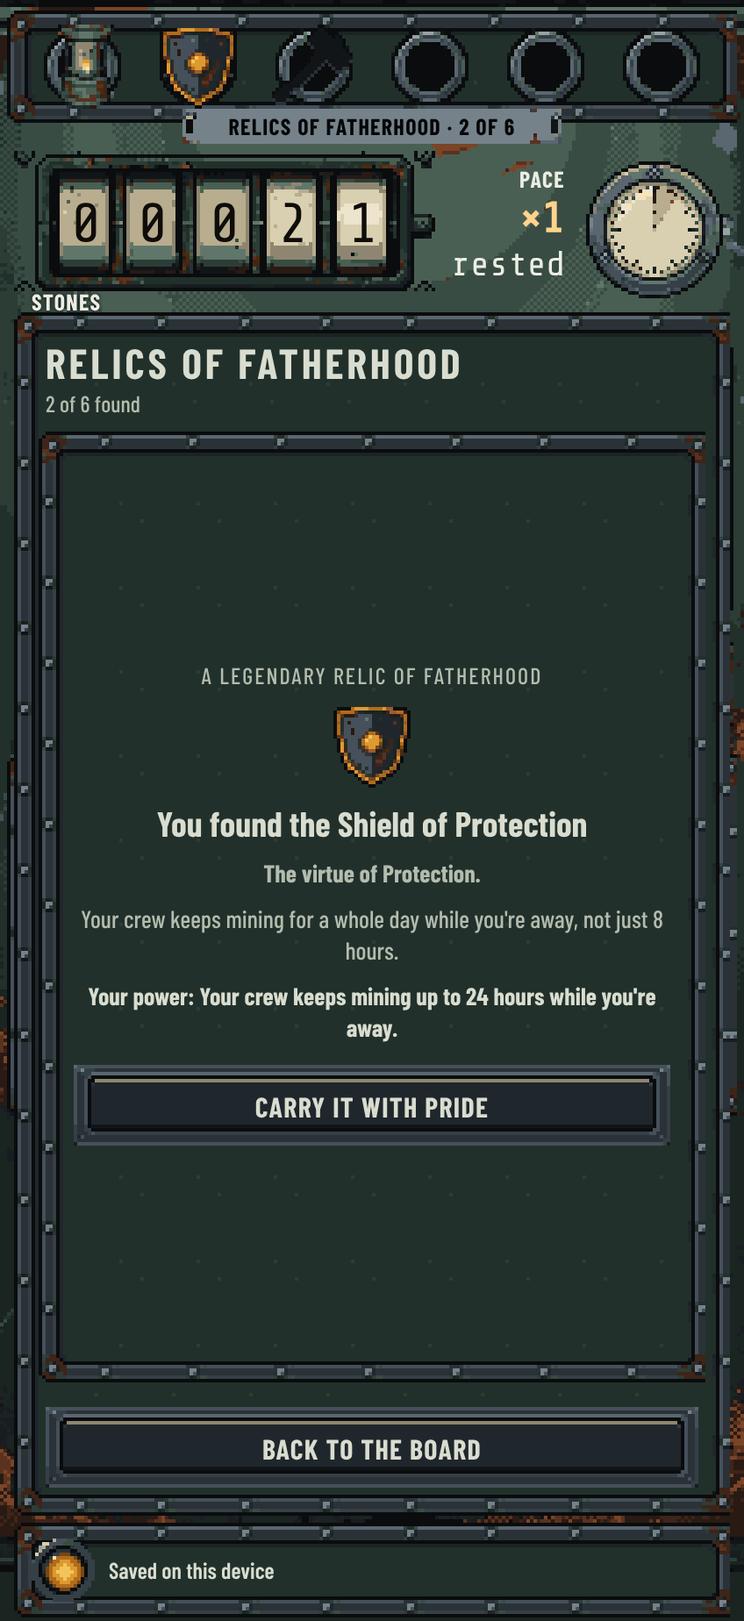
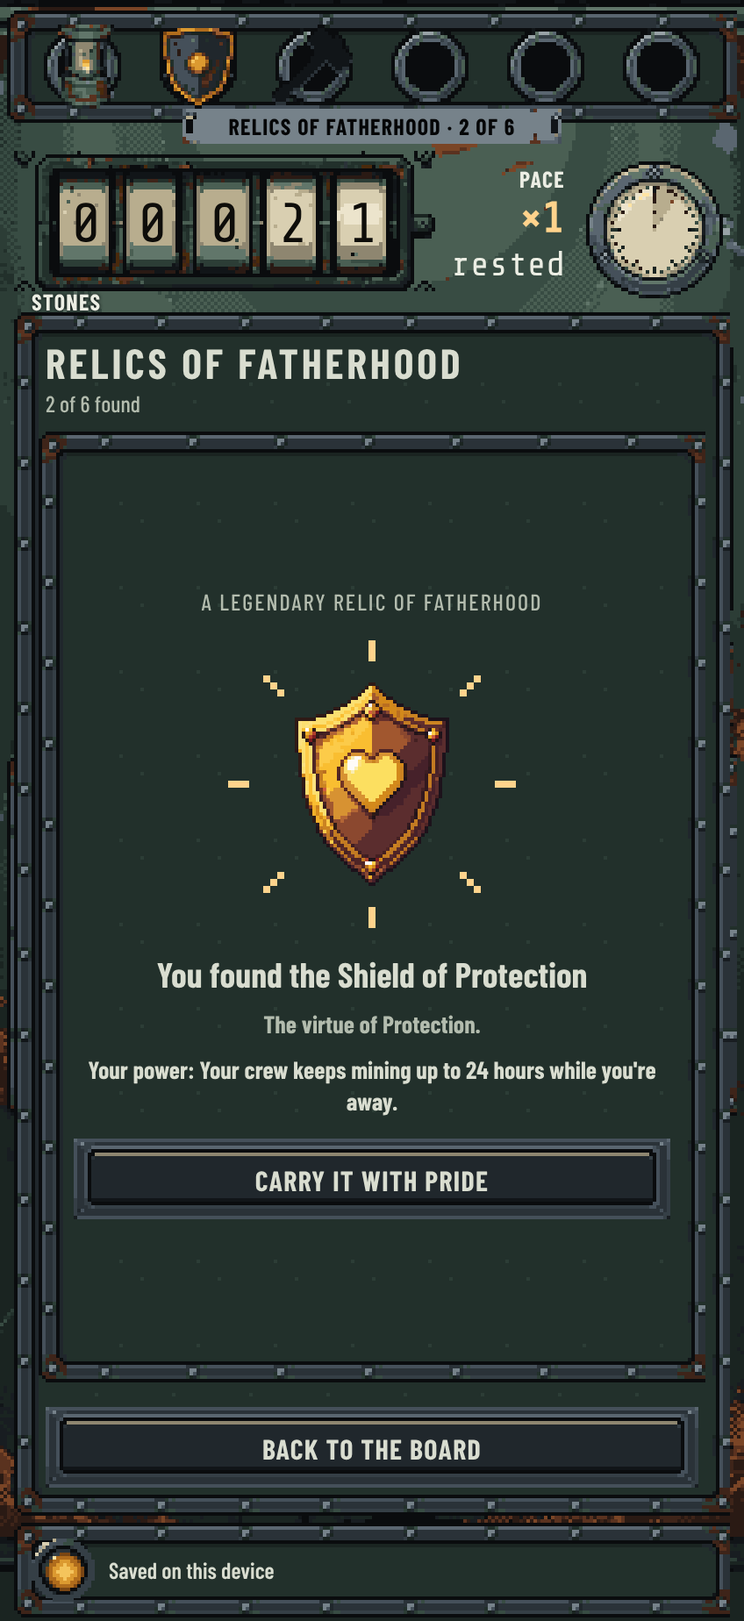
The found relic rises in hard steps, its light swaps frames, and the words step in (#523)
Claude-Session: https://claude.ai/code/session_011RgeWsjy2G4D5ZDwLYbp1p

Changed region(s): [[0.092, 0.3701, 0.9198, 0.7711]]

diff --git a/src/board.css b/src/board.css
@@ -807,6 +807,26 @@ body {
   .board-card .board-card-face {
     animation: none;
   }
+  /* The reveal (#523): the relic, its light (the near frame) and its words are simply there.
+     Under .board-sheet, to stand over the entrance's own rules later in this file. */
+  .board-sheet .relic-reveal-light {
+    animation: none;
+  }
+  .board-sheet .relic-reveal-page.is-entering .relic-reveal-art {
+    animation: none;
+  }
+  .board-sheet .relic-reveal-page.is-entering .relic-reveal-light {
+    animation: none;
+  }
+  .board-sheet .relic-reveal-page.is-entering .relic-page-title {
+    animation: none;
+  }
+  .board-sheet .relic-reveal-page.is-entering .relic-page-line {
+    animation: none;
+  }
+  .board-sheet .relic-reveal-page.is-entering .relic-page-boost {
+    animation: none;
+  }
 }
 
 /* The save line's spoken separator: in the text, not drawn. */
@@ -3371,7 +3391,7 @@ button.board-row:focus-visible {
 
 /* The reveal of a relic just found (#523): the gold sprite at 2× on its stage, with eight
    dashes of light around it, drawn as art-pixel blocks (no art, no filter). The dashes reach
-   past the stage, so its margin keeps them off the kicker and the title. */
+   past the stage, so its margin keeps them, on the far frame too, off the kicker and the title. */
 .relic-reveal-stage {
   position: relative;
   flex: none;
@@ -3379,7 +3399,7 @@ button.board-row:focus-visible {
   place-items: center;
   width: calc(var(--art) * 64);
   height: calc(var(--art) * 64);
-  margin: calc(var(--art) * 8) 0;
+  margin: calc(var(--art) * 12) 0;
 }
 
 .relic-reveal-art {
@@ -3390,35 +3410,107 @@ button.board-row:focus-visible {
 }
 
 .relic-reveal-light {
+  /* How far out the dashes stand, in art px: the shine swaps both, a whole frame at a time. */
+  --relic-out: 0;
+  --relic-diag: 0;
   position: relative;
   grid-area: 1 / 1;
   width: calc(var(--art) * 2);
   height: calc(var(--art) * 2);
   box-shadow:
-    calc(var(--art) * 36) calc(var(--art) * 0) 0 0 var(--board-amber-bare),
-    calc(var(--art) * -36) calc(var(--art) * 0) 0 0 var(--board-amber-bare),
-    calc(var(--art) * 0) calc(var(--art) * 36) 0 0 var(--board-amber-bare),
-    calc(var(--art) * 0) calc(var(--art) * -36) 0 0 var(--board-amber-bare),
-    calc(var(--art) * 38) calc(var(--art) * 0) 0 0 var(--board-amber-bare),
-    calc(var(--art) * -38) calc(var(--art) * 0) 0 0 var(--board-amber-bare),
-    calc(var(--art) * 0) calc(var(--art) * 38) 0 0 var(--board-amber-bare),
-    calc(var(--art) * 0) calc(var(--art) * -38) 0 0 var(--board-amber-bare),
-    calc(var(--art) * 40) calc(var(--art) * 0) 0 0 var(--board-amber-bare),
-    calc(var(--art) * -40) calc(var(--art) * 0) 0 0 var(--board-amber-bare),
-    calc(var(--art) * 0) calc(var(--art) * 40) 0 0 var(--board-amber-bare),
-    calc(var(--art) * 0) calc(var(--art) * -40) 0 0 var(--board-amber-bare),
-    calc(var(--art) * 26) calc(var(--art) * 26) 0 0 var(--board-amber-bare),
-    calc(var(--art) * -26) calc(var(--art) * 26) 0 0 var(--board-amber-bare),
-    calc(var(--art) * 26) calc(var(--art) * -26) 0 0 var(--board-amber-bare),
-    calc(var(--art) * -26) calc(var(--art) * -26) 0 0 var(--board-amber-bare),
-    calc(var(--art) * 28) calc(var(--art) * 28) 0 0 var(--board-amber-bare),
-    calc(var(--art) * -28) calc(var(--art) * 28) 0 0 var(--board-amber-bare),
-    calc(var(--art) * 28) calc(var(--art) * -28) 0 0 var(--board-amber-bare),
-    calc(var(--art) * -28) calc(var(--art) * -28) 0 0 var(--board-amber-bare),
-    calc(var(--art) * 30) calc(var(--art) * 30) 0 0 var(--board-amber-bare),
-    calc(var(--art) * -30) calc(var(--art) * 30) 0 0 var(--board-amber-bare),
-    calc(var(--art) * 30) calc(var(--art) * -30) 0 0 var(--board-amber-bare),
-    calc(var(--art) * -30) calc(var(--art) * -30) 0 0 var(--board-amber-bare);
+    calc(var(--art) * (36 + var(--relic-out))) 0 0 0 var(--board-amber-bare),
+    calc(var(--art) * (-36 - var(--relic-out))) 0 0 0 var(--board-amber-bare),
+    0 calc(var(--art) * (36 + var(--relic-out))) 0 0 var(--board-amber-bare),
+    0 calc(var(--art) * (-36 - var(--relic-out))) 0 0 var(--board-amber-bare),
+    calc(var(--art) * (38 + var(--relic-out))) 0 0 0 var(--board-amber-bare),
+    calc(var(--art) * (-38 - var(--relic-out))) 0 0 0 var(--board-amber-bare),
+    0 calc(var(--art) * (38 + var(--relic-out))) 0 0 var(--board-amber-bare),
+    0 calc(var(--art) * (-38 - var(--relic-out))) 0 0 var(--board-amber-bare),
+    calc(var(--art) * (40 + var(--relic-out))) 0 0 0 var(--board-amber-bare),
+    calc(var(--art) * (-40 - var(--relic-out))) 0 0 0 var(--board-amber-bare),
+    0 calc(var(--art) * (40 + var(--relic-out))) 0 0 var(--board-amber-bare),
+    0 calc(var(--art) * (-40 - var(--relic-out))) 0 0 var(--board-amber-bare),
+    calc(var(--art) * (26 + var(--relic-diag)))
+      calc(var(--art) * (26 + var(--relic-diag))) 0 0 var(--board-amber-bare),
+    calc(var(--art) * (-26 - var(--relic-diag)))
+      calc(var(--art) * (26 + var(--relic-diag))) 0 0 var(--board-amber-bare),
+    calc(var(--art) * (26 + var(--relic-diag)))
+      calc(var(--art) * (-26 - var(--relic-diag))) 0 0 var(--board-amber-bare),
+    calc(var(--art) * (-26 - var(--relic-diag)))
+      calc(var(--art) * (-26 - var(--relic-diag))) 0 0 var(--board-amber-bare),
+    calc(var(--art) * (28 + var(--relic-diag)))
+      calc(var(--art) * (28 + var(--relic-diag))) 0 0 var(--board-amber-bare),
+    calc(var(--art) * (-28 - var(--relic-diag)))
+      calc(var(--art) * (28 + var(--relic-diag))) 0 0 var(--board-amber-bare),
+    calc(var(--art) * (28 + var(--relic-diag)))
+      calc(var(--art) * (-28 - var(--relic-diag))) 0 0 var(--board-amber-bare),
+    calc(var(--art) * (-28 - var(--relic-diag)))
+      calc(var(--art) * (-28 - var(--relic-diag))) 0 0 var(--board-amber-bare),
+    calc(var(--art) * (30 + var(--relic-diag)))
+      calc(var(--art) * (30 + var(--relic-diag))) 0 0 var(--board-amber-bare),
+    calc(var(--art) * (-30 - var(--relic-diag)))
+      calc(var(--art) * (30 + var(--relic-diag))) 0 0 var(--board-amber-bare),
+    calc(var(--art) * (30 + var(--relic-diag)))
+      calc(var(--art) * (-30 - var(--relic-diag))) 0 0 var(--board-amber-bare),
+    calc(var(--art) * (-30 - var(--relic-diag)))
+      calc(var(--art) * (-30 - var(--relic-diag))) 0 0 var(--board-amber-bare);
+  animation: board-relic-shine 3.2s steps(1) infinite;
+}
+
+/* The entrance (#523), in the board's hard steps: the relic rises behind the drawer's own
+   0.24s slide and lands, then the light and the words step in whole, one after another. The
+   plate is there from the start. Each waits at its first frame (backwards) until its turn. */
+.relic-reveal-page.is-entering .relic-reveal-art {
+  animation: board-relic-rise 0.4s steps(8) 0.24s backwards;
+}
+
+.relic-reveal-page.is-entering .relic-reveal-light {
+  animation:
+    board-relic-in 0.01s steps(1) 0.64s backwards,
+    board-relic-shine 3.2s steps(1) 0.64s infinite;
+}
+
+.relic-reveal-page.is-entering .relic-page-title {
+  animation: board-relic-in 0.01s steps(1) 0.7s backwards;
+}
+
+.relic-reveal-page.is-entering .relic-page-line {
+  animation: board-relic-in 0.01s steps(1) 0.76s backwards;
+}
+
+.relic-reveal-page.is-entering .relic-page-boost {
+  animation: board-relic-in 0.01s steps(1) 0.82s backwards;
+}
+
+@keyframes board-relic-rise {
+  from {
+    transform: translateY(calc(var(--art) * 40)) scale(2);
+  }
+  to {
+    transform: scale(2);
+  }
+}
+
+@keyframes board-relic-in {
+  from {
+    visibility: hidden;
+  }
+  to {
+    visibility: visible;
+  }
+}
+
+/* Two frames: the dashes near, then 4 art px further out (3 on each axis of a diagonal). */
+@keyframes board-relic-shine {
+  0%,
+  100% {
+    --relic-out: 0;
+    --relic-diag: 0;
+  }
+  50% {
+    --relic-out: 4;
+    --relic-diag: 3;
+  }
 }
 
 .relic-legend-shelf {

diff --git a/src/style.test.ts b/src/style.test.ts
@@ -357,6 +357,32 @@ describe("board.css", () => {
     expect(reduced).toMatch(/\.engineer-walker[^{]*\{[^}]*animation:\s*none/);
   });
 
+  it("the reveal's rise, light and words hold still under reduced motion (#523)", () => {
+    expect(boardCss).toMatch(
+      /^\.relic-reveal-page\.is-entering \.relic-reveal-art \{[^}]*animation:\s*board-relic-rise [^;]*steps\(/m,
+    );
+    expect(boardCss).toMatch(
+      /^\.relic-reveal-light \{[^}]*animation:\s*board-relic-shine [^;]*steps\(1\) infinite/m,
+    );
+    const reduced =
+      /@media \(prefers-reduced-motion: reduce\) \{([\s\S]*?)\n\}/.exec(
+        boardCss,
+      )?.[1];
+    for (const part of [
+      "\\.relic-reveal-art",
+      "\\.relic-reveal-light",
+      "\\.relic-page-title",
+      "\\.relic-page-line",
+      "\\.relic-page-boost",
+    ]) {
+      expect(reduced).toMatch(
+        new RegExp(
+          `\\.relic-reveal-page[^{]*${part}[^{]*\\{[^}]*animation:\\s*none`,
+        ),
+      );
+    }
+  });
+
   it("the New sign takes no taps: they go through to the plate or the key (#373)", () => {
     const rule = /^\.board-sign-slot \{([^}]*)\}/m.exec(boardCss)?.[1] ?? "";
     expect(rule).toMatch(/pointer-events:\s*none/);

diff --git a/src/relic-pages.test.ts b/src/relic-pages.test.ts
@@ -200,6 +200,17 @@ describe("the reveal page (#465)", () => {
     ]);
   });
 
+  it("plays its entrance afresh each time a relic is painted (#523)", () => {
+    const page = createRevealPage({ board, onCarry: vi.fn() });
+    expect(page.root.classList.contains("is-entering")).toBe(false);
+    page.paint(relic(0));
+    expect(page.root.classList.contains("is-entering")).toBe(true);
+    const removed = vi.spyOn(page.root.classList, "remove");
+    page.paint(relic(1));
+    expect(removed).toHaveBeenCalledWith("is-entering");
+    expect(page.root.classList.contains("is-entering")).toBe(true);
+  });
+
   it("Carry it with pride acts past the settle, with how it came", () => {
     const onCarry = vi.fn();
     const page = createRevealPage({ board, onCarry });

diff --git a/src/relic-panels.test.ts b/src/relic-panels.test.ts
@@ -282,6 +282,20 @@ describe("the reveal opens the drawer itself (#465)", () => {
     expect(fixture.panel.sheet.isOpen()).toBe(false);
   });
 
+  it("Escape while the relic is still rising carries it (#523)", () => {
+    const fixture = mount(
+      minedMountain(relic("lantern").depth),
+      relic("lantern"),
+    );
+    fixture.panel.render();
+    expect(page(fixture, "reveal")?.classList.contains("is-entering")).toBe(
+      true,
+    );
+    advance(50);
+    escape();
+    expect(fixture.dismissReveal).toHaveBeenCalledTimes(1);
+  });
+
   it("Back, Escape and the scrim carry it too: closing it is seen", () => {
     const fixture = mount(
       minedMountain(relic("shield").depth),

diff --git a/src/relic-pages.ts b/src/relic-pages.ts
@@ -222,6 +222,10 @@ export function createRevealPage({
   return {
     root,
     paint(relic) {
+      // The entrance plays afresh for each relic (#523): off, a reflow, and on again.
+      root.classList.remove("is-entering");
+      void root.offsetWidth;
+      root.classList.add("is-entering");
       write(title, `You found the ${relic.name}`);
       setAttr(stage.art, "src", RELIC_GOLD[relic.id]);
       write(virtue, `The virtue of ${relic.virtue}.`);

diff --git a/docs/ui-audit.md b/docs/ui-audit.md
@@ -40,7 +40,7 @@ Bars used below:
 | Engineers, expedition    | [shot](ui-audit/engineers-expedition-424x924.png)   | Ada is out: her row's icon cell is the tunnel mouth with the miner walking home in hard steps, and its line is words (`Exploring the old shaft · gone about an hour`), not a clock.                                                                                                                                                                                                                                                                                                                                                                                                                                                                                                                                                                                                                                                                               |
 | Engineers, homecoming    | [shot](ui-audit/engineers-homecoming-424x924.png)   | The welcome board card (#464): `Welcome home` names who came back and what they carried, and the Engineers drawer is shut under it. No digits, on purpose. One plate, `Back to the mountain`.                                                                                                                                                                                                                                                                                                                                                                                                                                                                                                                                                                                                                                                                     |
 | Relic tease              | [shot](ui-audit/relic-tease-424x924.png)            | The Ledger's relics row: the next relic dark at 48, `Next: … · Almost there` and the guide bar at the row's foot. On the board, the next relic is the dark socket; a tap shows its vague hint.                                                                                                                                                                                                                                                                                                                                                                                                                                                                                                                                                                                                                                                                    |
-| Relic reveal             | [shot](ui-audit/relic-reveal-424x924.png)           | The relics drawer opens itself on its reveal page (#465): the Mantle's or any relic's art at 24 art px, its virtue, what it does, its power, and `Carry it with pride`. Back, the scrim and Escape carry it too.                                                                                                                                                                                                                                                                                                                                                                                                                                                                                                                                                                                                                                                  |
+| Relic reveal             | [shot](ui-audit/relic-reveal-424x924.png)           | The relics drawer opens itself on its reveal page (#465): the Mantle's or any relic's gold sprite at 2× with its light (#523), rising into place in hard steps, then its name, its virtue and one line for its power, and `Carry it with pride`, which is there from the start. Back, the scrim and Escape carry it too.                                                                                                                                                                                                                                                                                                                                                                                                                                                                                                                                          |
 | Relic shelf              | [shot](ui-audit/relic-shelf-424x924.png)            | The relics drawer (#465), opened from the `Relic shelf` key in any socket's note: six rows, found ones dark with their power (found is done, #509), the next amber with its tease and `Next · …` hint, the rest dark. Fits with no scroll.                                                                                                                                                                                                                                                                                                                                                                                                                                                                                                                                                                                                                        |
 | Relic detail             | [shot](ui-audit/relic-detail-424x924.png)           | A page of the relics drawer: the relic, its virtue and power, the keepsakes brought home with their own 16 art px icons, and `Back to the shelf`. Five stories fit without the list scrolling.                                                                                                                                                                                                                                                                                                                                                                                                                                                                                                                                                                                                                                                                    |
 | Legend                   | [shot](ui-audit/relic-legend-424x924.png)           | After the Mantle's reveal, on the same drawer: the six relics lit, the stones and the crew, `Stand proud` and `Pass to your kid` side by side.                                                                                                                                                                                                                                                                                                                                                                                                                                                                                                                                                                                                                                                                                                                    |

diff --git a/docs/DESIGN.md b/docs/DESIGN.md
@@ -104,7 +104,7 @@ Old saves are migrated, not wiped: dug cells count as stones already mined out o
 - A machine arriving gives one calm beat per tier whose count rose, however far: a cart sends the full tub up the cage and a new empty one down, a drill puffs dust, and the first borer has its tarp dragged off. Nothing beats on the first render, on a fall (Start over, Pass the mine), or under reduced motion, where the window and the needle hold still and a dig's "+N" shows without rising.
 - Golden veins glint on the view's rock, inside the window and on top of it; a tap on the vein pays the vein and never also digs. Its payout ("Golden vein! +N stones", and for a quick vein a second line, "Gold rush: the crew digs ×10 for 90 seconds.") and the quiet away line show in a one-line board note under the window. Hazards show in the window too: a cart trouble brings the cave-in down over the face and holds the run, and a drill or borer trouble holds that machine still. The shout and the fix are on the machine's bay (when it has one) and on its row in Buys.
 - On a kid's run the Legacy plate, a brass plate across the window's lower edge, reads `Legacy ×1.5` (×2 after the second pass, and so on). It is a label, not a door.
-- The relic shelf, opened from a socket note's Relic shelf key, is the relics drawer (#465): six rows, found relics dark with their power (found is done), the next amber with its tease and hint, the rest dark. A found row opens its detail page with the keepsakes. A relic's reveal and the Legend open the same drawer themselves.
+- The relic shelf, opened from a socket note's Relic shelf key, is the relics drawer (#465): six rows, found relics dark with their power (found is done), the next amber with its tease and hint, the rest dark. A found row opens its detail page with the keepsakes. A relic's reveal and the Legend open the same drawer themselves. The reveal is the moment of the find (#523): the gold relic at 2× rises into place in hard steps, pixel light around it swaps between two frames, and then its name, its virtue and one line for its power step in. Carry it with pride is there from the start, and reduced motion shows it all at once.
 - The key rail (#373) holds five steel keys, 64px wide and 16px apart: Buys, Workshop, Engineers, Upgrades and Ledger. Each key is a cap with its icon, and its name under it. A key whose door will not open yet is locked: a dim cap and icon, a quiet name, and an unlock line under it ("With the clay" on Workshop, "With 1st borer" on Engineers); it takes no tap. Workshop waits for the Granite's clay. Engineers wait for the first borer. Buys, Upgrades and Ledger open from the start. A lit cap says there is something to do behind the key, where the old gold glow was: Workshop when a craft can start, Engineers when a promotion is affordable, and Upgrades when one is affordable. Buys never lights; the Ready now plate and the bay lamps say it. A lit cap is a status, not a second gold control. A small red dot lamp in the cap's corner is the teach dot (a system not yet used) and, on Buys, C3's trouble lamp for a tier with no bay. Under Workshop the bench's clock counts down while a craft runs, and under Engineers the soonest trip's. Workshop opens its drawer (#374), Engineers opens its drawer (#455), and the Ledger key opens its drawer (#375). A New teach note shows once a launch as a slim sign over its key, in the band between the Ready plate and the rail; it takes no taps, its words are read on the key's label, and any tap puts it away. The dot stays until he opens the sheet.
 - Buys, Upgrades, Workshop, Engineers and the Ledger open as drawers (#373, #374, #375, #455): a riveted sheet slides up from under the board's middle in six hard steps (240ms) and away in five (200ms), covering 178px down to the save line, so the odometer and the save line stay in view. Each has its title, a kick under it, an "i" in the corner, a list of rows, the spare plate under a short list, and Back. Buys has one more key in its head, left of the "i": the amount key (#358). The Ledger has the Sound key there (#491). A tap on the board above the drawer (the scrim) closes it, and a tap there over a relic socket also shows that relic's note. Escape closes it too. Opening one drawer closes the others. For 400ms after a drawer opens, a finger that lands on it (a row, the "i" or Back) is the second tap of the double tap that opened it and does nothing. It is judged for the whole drawer, at the press and again at the click: a touch's click lands where the finger lifts, on a row that may have slid under it as the drawer rose. A press that starts in the 400ms stays early when it lifts later. Back closing a drawer starts the same 400ms for what it shows again: a finger that lands in that time on a key, the Ready now plate or a bay is the double tap's second tap and does nothing, so it never opens the key under Back or buys. A keyboard press is never early. A troubled row still counts the press toward its fix. The "i" shows the How it works cards in the list's place, with one Back that brings the list back and starts the 400ms again. While Buys is open its rows, sections and crew chips keep their places, and a row that should appear or go waits for the next open. Upgrades keeps its row order while open; which rows show can still change on a re-load.
 - A drawer row is 76px tall, 10px from the next: a lamp, the icon, the name (with a badge such as "Lv 2/10") and its flag on the same line, an info line, and a need or a why, then the gain, the price tag and the verb at the right. Three lines at most, so every line sits on the frame's face: with no need and no why under it, the info line may take two (#506). In the info line, and in the line under a machine on the board, the figures are bright and bold and the words are quiet. A Buys row is in one of four states. Ready: a green lamp, amber on the Ready now pick (flagged "Ready now", or "Saving for" on the machine he is saving for), and the verb Hire or Buy. Short of workers: "Needs 8 workers" in rust, a dark lamp and the verb naming the hands; it still buys, as before. Dear: a dark lamp, a dim tag and the hands or the verb in quiet ink. Locked: "Locked" on a dim tag, the dim icon (the borer under its tarp, the Great Machine under canvas, the kid as a silhouette) and the line that says where it opens. A tap that buys holds "Done" on the row, with a green lamp, for 1.9s, so a sleepy second tap buys nothing. A tap he cannot afford blinks the lamp red, off, red, off (140ms each) and buys nothing; under reduced motion it does not blink. An engineer on the machine adds "Ada +86/s" to the flag (#506); where the name's line has no room it falls back to the number alone, or beside a pick word to that word, and then to its ellipsis. The staffing New row reads "New" and hires a worker. A worker or kid row's gain, and the New row's, is the crew's rise with them, so it counts the idle machines they start, Helping hands and a worker mark (#490); a machine row's is its own speed per one. The spare plate fills what a short list leaves: the maker's plate, the strip, or nothing.

diff --git a/docs/ART.md b/docs/ART.md
@@ -20,7 +20,7 @@ All game art is PixelLab pixel art (`POST /v2/create-image-pixflux`, transparent
 | `src/assets/relics/mantle.png`  | 64   | 16   | legendary flowing red hero cape with golden clasp and trim, ancient heroic relic, warm glow                                                                                                                                   |
 | `src/assets/grandpa-miner.png`  | 44   | 41   | kind old grandfather dwarf miner with long white beard, worn helmet with a small lamp, leaning on a wooden walking stick, warm smile, retired master engineer, full body (48×48 canvas, `create_image_pixflux` via MCP, #338) |
 
-In the game, the mountain picture is now only the source of the app icons and the favicon, built from `mountain.png` by `scripts/make-icons.py` (the mockups still show it): the layer card shows the new band's mine view instead (`mine-window.ts#mineView`, #464). The board's tap target is the mine window (#371), whose band views are below. The relic sprites are used by the relic issues (#52, #53).
+In the game, the mountain picture is now only the source of the app icons and the favicon, built from `mountain.png` by `scripts/make-icons.py` (the mockups still show it): the layer card shows the new band's mine view instead (`mine-window.ts#mineView`, #464). The board's tap target is the mine window (#371), whose band views are below. The relic sprites are the reveal's art (#523): each is shown at exactly 2× (its 52 to 62px file, doubled) in the middle of a 64 art px stage on the relics drawer's reveal page, with eight dashes of amber light drawn in CSS around it. Nothing else shows them: the sockets, the shelf, the detail page and the Legend keep the 24px board icons.
 
 ## The control board (#370)
 
